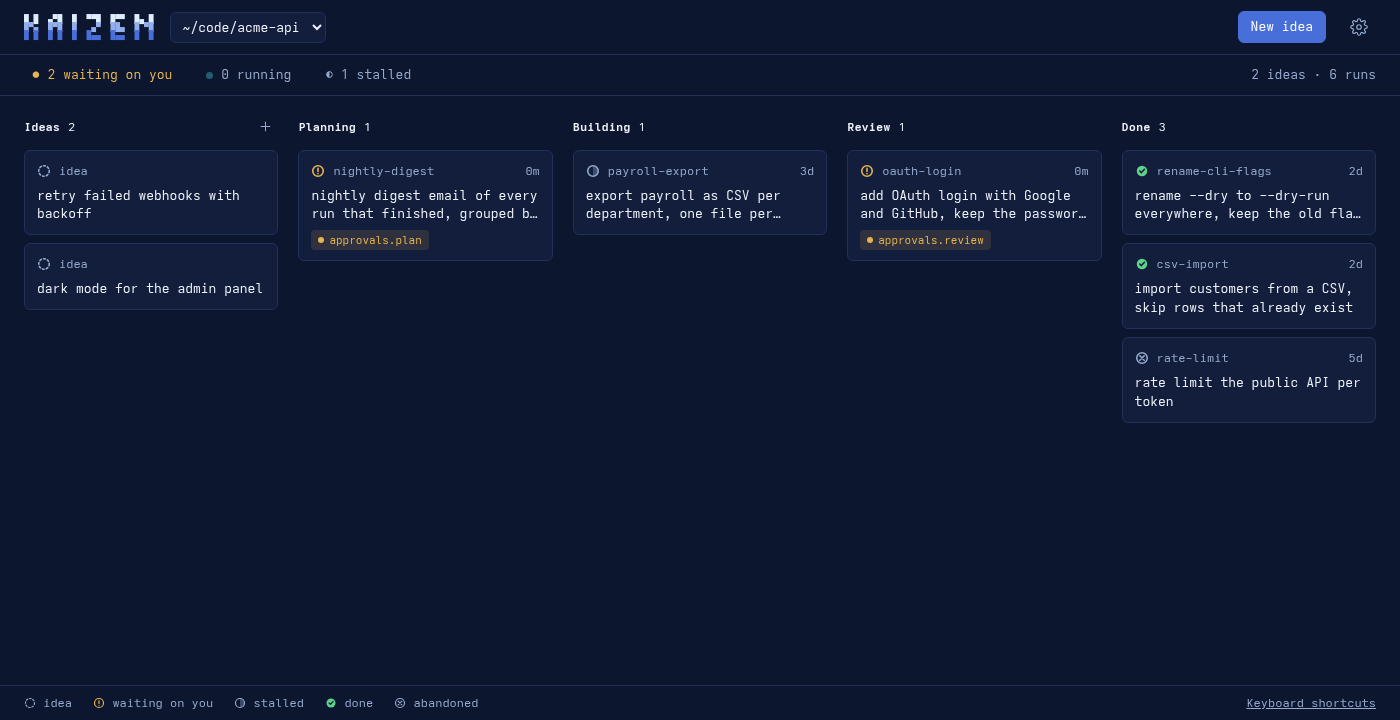
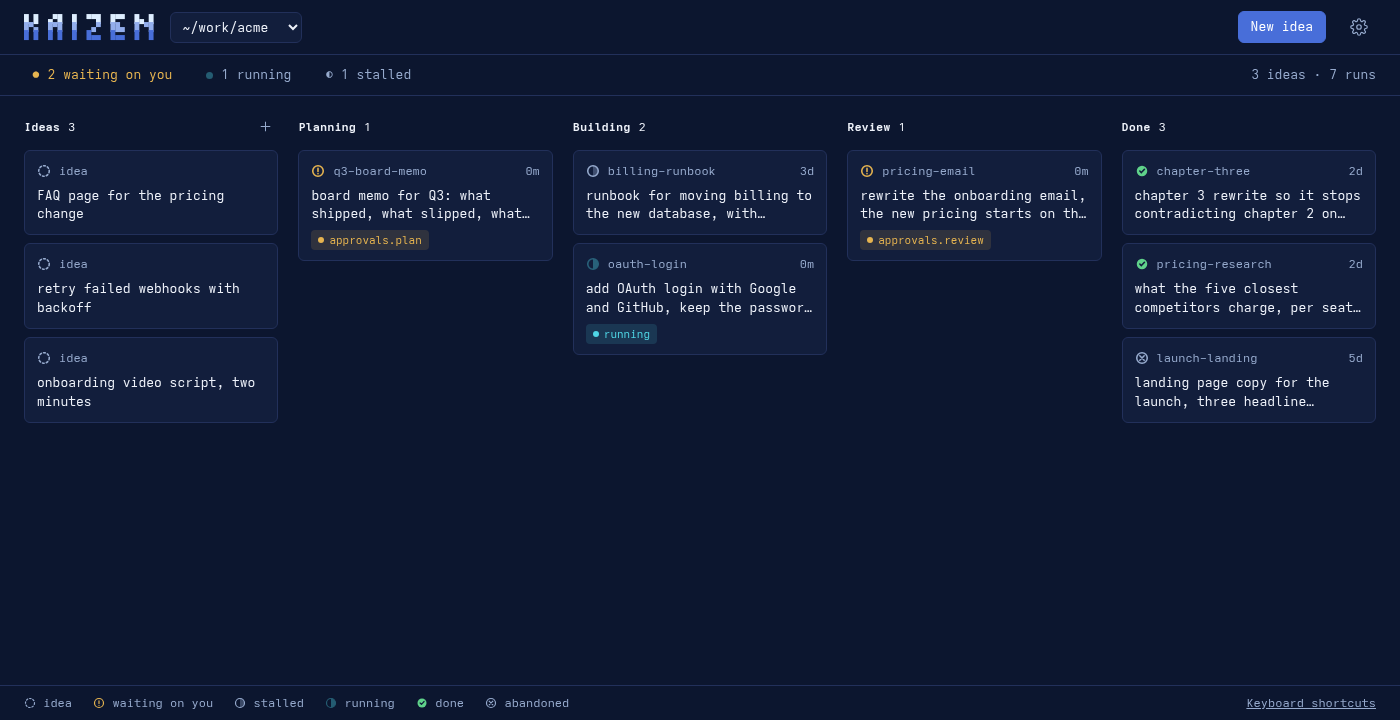
Board examples cover every kind of work, not only code
Claude-Session: https://claude.ai/code/session_01783xFz2faCfo72JVG7YkJj

diff --git a/README.md b/README.md
@@ -240,15 +240,15 @@ itself as your agents write to disk — a run that moves while you are looking a
 screen.
 
 ```
-  Board   ~/code/acme-api
+  Board   ~/work/acme
 
   IDEA                     PLANNING              BUILDING           REVIEW          DONE
   ──────────────────────   ───────────────────   ────────────────   ─────────────   ──────────────
-  › · rate limit the       ◌ nightly digest      ● payroll export   ● oauth login   ○ rename cli
-      public API                                                                      flags
-                           ● landing page                                           ○ csv import
-    · retry failed
-      webhooks
+  › · FAQ page for the     ● q3 board memo       ◐ billing runbook  ● pricing       ○ chapter three
+      pricing change                                                  email
+                                                 ● oauth login                      ○ pricing
+    · onboarding video                                                                research
+      script, two minutes
 
   ↑↓←→ move     n new  e edit  x reject  d delete  r run     a all projects  q back
   ● running    ◐ stalled    ◌ starting    ● waiting on you    ○ done    · idea
